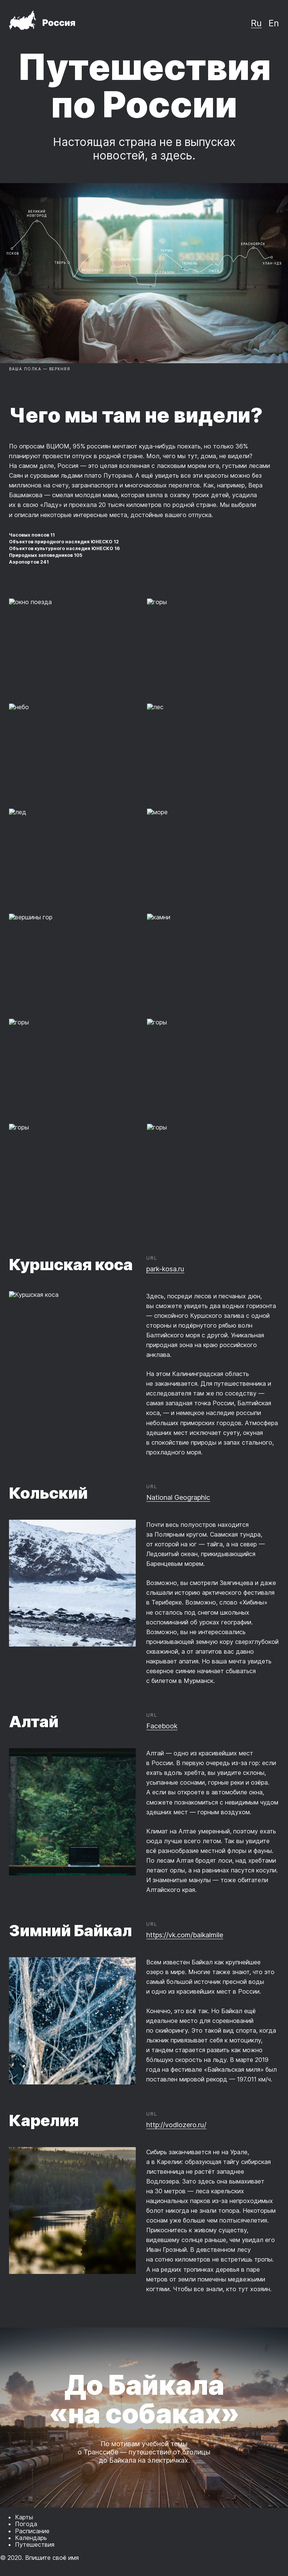
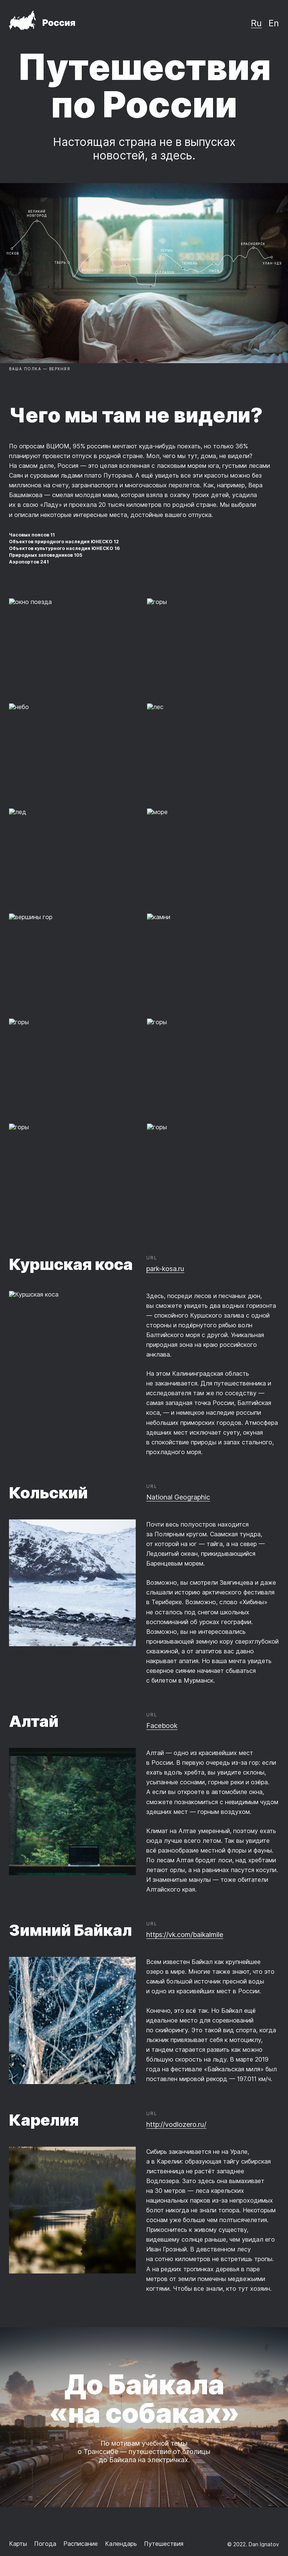
Add footer screenshots for testcafe

diff --git a/tests-testcafe/1024/index-tests_1024.js b/tests-testcafe/1024/index-tests_1024.js
@@ -40,6 +40,6 @@ test.page`../section-pages/cover.html`(`Cover screenshot test 1024`, async t => 
 });
 
 test.page`../section-pages/footer.html`(`Footer screenshot test 1024`, async t => {
-  await t.resizeWindow(1024, 1000);
+  await t.resizeWindow(1024, 100);
   await t.expect(await compareScreenshot(t, 'footer_1024.png')).ok();
 });

diff --git a/tests-testcafe/1080/index-tests_1080.js b/tests-testcafe/1080/index-tests_1080.js
@@ -40,6 +40,6 @@ test.page`../section-pages/cover.html`(`Cover screenshot test 1080`, async t => 
 });
 
 test.page`../section-pages/footer.html`(`Footer screenshot test 1080`, async t => {
-  await t.resizeWindow(1080, 1000);
+  await t.resizeWindow(1080, 100);
   await t.expect(await compareScreenshot(t, 'footer_1080.png')).ok();
 });

diff --git a/tests-testcafe/1280/index-tests_1280.js b/tests-testcafe/1280/index-tests_1280.js
@@ -40,6 +40,6 @@ test.page`../section-pages/cover.html`(`Cover screenshot test 1280`, async t => 
 });
 
 test.page`../section-pages/footer.html`(`Footer screenshot test 1280`, async t => {
-  await t.resizeWindow(1280, 1000);
+  await t.resizeWindow(1280, 100);
   await t.expect(await compareScreenshot(t, 'footer_1280.png')).ok();
 });

diff --git a/tests-testcafe/1440/index-tests_1440.js b/tests-testcafe/1440/index-tests_1440.js
@@ -40,6 +40,6 @@ test.page`../section-pages/cover.html`(`Cover screenshot test 1440`, async t => 
 });
 
 test.page`../section-pages/footer.html`(`Footer screenshot test 1440`, async t => {
-  await t.resizeWindow(1440, 1000);
+  await t.resizeWindow(1440, 100);
   await t.expect(await compareScreenshot(t, 'footer_1440.png')).ok();
 });

diff --git a/tests-testcafe/320/index-tests_320.js b/tests-testcafe/320/index-tests_320.js
@@ -40,6 +40,6 @@ test.page`../section-pages/cover.html`(`Cover screenshot test 320`, async t => {
 });
 
 test.page`../section-pages/footer.html`(`Footer screenshot test 320`, async t => {
-  await t.resizeWindow(320, 1000);
+  await t.resizeWindow(320, 100);
   await t.expect(await compareScreenshot(t, 'footer_320.png')).ok();
 });

diff --git a/tests-testcafe/480/index-tests_480.js b/tests-testcafe/480/index-tests_480.js
@@ -40,6 +40,6 @@ test.page`../section-pages/cover.html`(`Cover screenshot test 480`, async t => {
 });
 
 test.page`../section-pages/footer.html`(`Footer screenshot test 480`, async t => {
-  await t.resizeWindow(480, 1000);
+  await t.resizeWindow(480, 100);
   await t.expect(await compareScreenshot(t, 'footer_480.png')).ok();
 });

diff --git a/tests-testcafe/768/index-tests_768.js b/tests-testcafe/768/index-tests_768.js
@@ -40,6 +40,6 @@ test.page`../section-pages/cover.html`(`Cover screenshot test 768`, async t => {
 });
 
 test.page`../section-pages/footer.html`(`Footer screenshot test 768`, async t => {
-  await t.resizeWindow(768, 1000);
+  await t.resizeWindow(768, 100);
   await t.expect(await compareScreenshot(t, 'footer_768.png')).ok();
 });

diff --git a/tests-testcafe/900/index-tests_900.js b/tests-testcafe/900/index-tests_900.js
@@ -40,6 +40,6 @@ test.page`../section-pages/cover.html`(`Cover screenshot test 900`, async t => {
 });
 
 test.page`../section-pages/footer.html`(`Footer screenshot test 900`, async t => {
-  await t.resizeWindow(900, 1000);
+  await t.resizeWindow(900, 100);
   await t.expect(await compareScreenshot(t, 'footer_900.png')).ok();
 });
